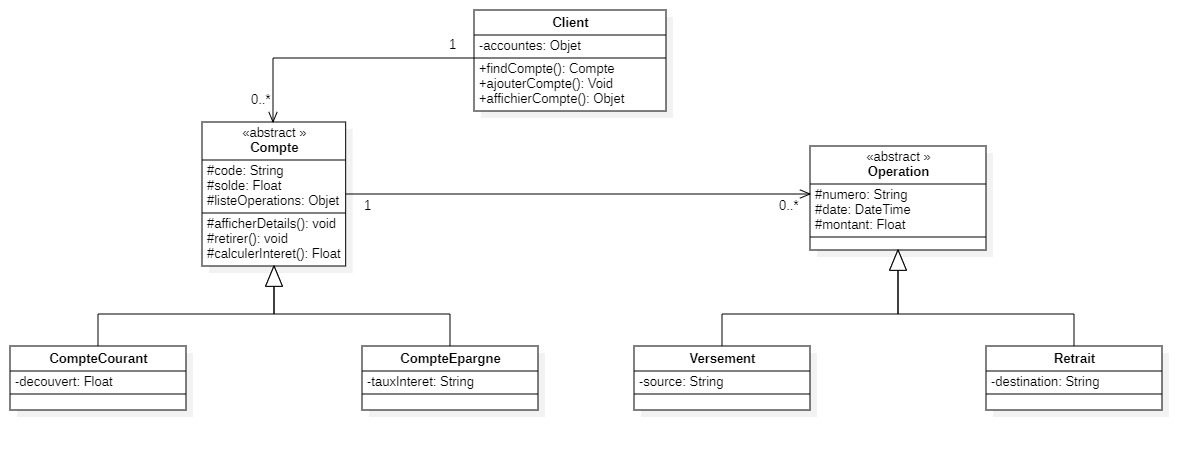
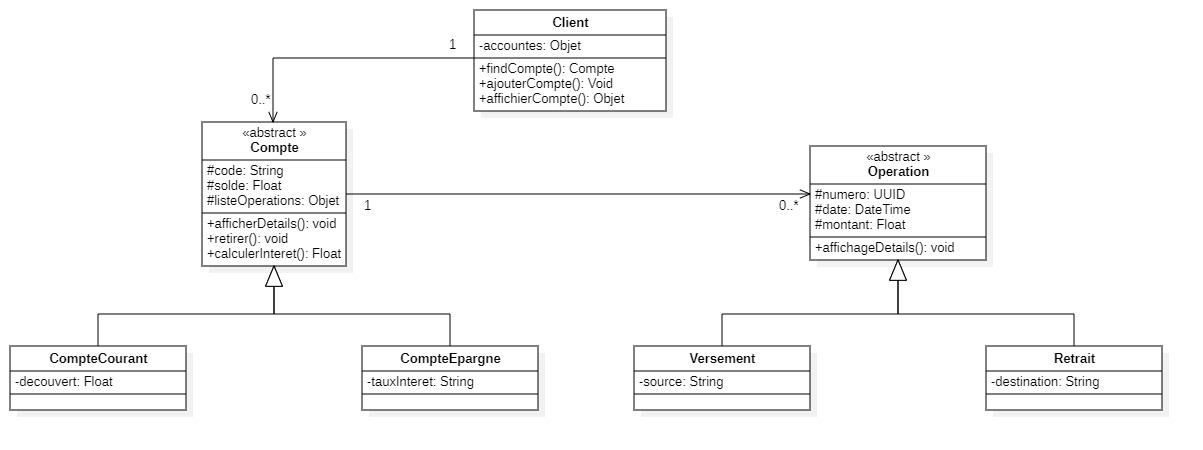
GDCB-13 Realiser le fichier README avec l'artifacte compile 'JAR'

diff --git a/README.md b/README.md
@@ -1,0 +1,68 @@
+# Gestion des comptes bancaires 
+***
+
+## 📌 Description
+Ce projet est une **application console en Java 8** qui permet de gérer les comptes bancaires d’une banque.  
+L’objectif est d’automatiser la gestion des comptes (courant et épargne) ainsi que leurs opérations (versements, retraits, virements).
+
+## 🏗 Structure de l’application
+- **Couche présentation (UI/Menu)** : interaction avec l’utilisateur via la console.
+- **Couche métier (services et logique de gestion)** : gestion des comptes et opérations.
+- **Couche utilitaire** : outils (formatage, validation, génération de code, etc.).
+
+## 📂 Contenu des classes principales
+
+### 🔹 Compte (abstraite)
+- **Attributs** : `code`, `solde`, `listeOperations`
+- **Méthodes abstraites** : `retirer()`, `calculerInteret()`, `afficherDetails()`
+
+### 🔹 CompteCourant
+- Hérite de `Compte`
+- Attribut supplémentaire : `decouvert`
+- **Règle** : le solde peut être négatif mais limité par le découvert autorisé.
+- **Intérêts** = `0`.
+
+### 🔹 CompteEpargne
+- Hérite de `Compte`
+- Attribut supplémentaire : `tauxInteret`
+- **Règle** : retrait possible uniquement si le solde ≥ montant à retirer.
+- **Intérêts** calculés sur le solde.
+
+### 🔹 Operation (abstraite)
+- **Attributs** : `numero (UUID)`, `date`, `montant`.
+
+### 🔹 Versement
+- Hérite de `Operation`
+- Attribut supplémentaire : `source`.
+
+### 🔹 Retrait
+- Hérite de `Operation`
+- Attribut supplémentaire : `destination`.
+
+## ⚙ Fonctionnalités principales
+- ✅ Créer un compte (courant ou épargne)
+- ✅ Effectuer un versement
+- ✅ Effectuer un retrait
+- ✅ Effectuer un virement entre comptes
+- ✅ Consulter le solde d’un compte
+- ✅ Consulter la liste des opérations d’un compte
+
+## 🚀 Technologies utilisées
+- **Langage** : Java 8
+- **Paradigme** : Programmation Orientée Objet (POO)
+- **Interface** : Console (UI textuelle)
+
+
+
+## Conception :
+- Diagramme de classe :
+![Diagrame de class](UML/Diagrame%20de%20class.jpg)
+
+## ▶ Exécution
+
+### Compilation
+Si tes fichiers `.java` sont directement dans le dossier :
+```bash
+javac *.java
+
+java Main
